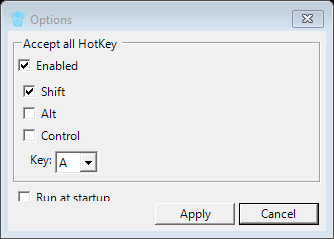
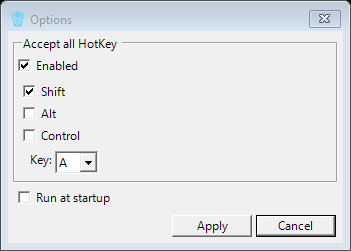
form size

Changed region(s): [[0.0299, 0.0293, 0.988, 0.8494], [0.479, 0.8494, 0.9581, 0.9665], [0.988, 0.0, 1.0, 0.0293]]

diff --git a/src/DiffEngineTray/Settings/OptionsForm.Designer.cs b/src/DiffEngineTray/Settings/OptionsForm.Designer.cs
@@ -39,17 +39,17 @@
             this.bottomPanel.Controls.Add(this.save);
             this.bottomPanel.Dock = System.Windows.Forms.DockStyle.Bottom;
             this.bottomPanel.FlowDirection = System.Windows.Forms.FlowDirection.RightToLeft;
-            this.bottomPanel.Location = new System.Drawing.Point(6, 228);
-            this.bottomPanel.Margin = new System.Windows.Forms.Padding(2, 2, 2, 2);
+            this.bottomPanel.Location = new System.Drawing.Point(6, 243);
+            this.bottomPanel.Margin = new System.Windows.Forms.Padding(2);
             this.bottomPanel.Name = "bottomPanel";
-            this.bottomPanel.Size = new System.Drawing.Size(351, 33);
+            this.bottomPanel.Size = new System.Drawing.Size(371, 33);
             this.bottomPanel.TabIndex = 1;
             // 
             // cancel
             // 
             this.cancel.DialogResult = System.Windows.Forms.DialogResult.Cancel;
-            this.cancel.Location = new System.Drawing.Point(257, 2);
-            this.cancel.Margin = new System.Windows.Forms.Padding(2, 2, 2, 2);
+            this.cancel.Location = new System.Drawing.Point(277, 2);
+            this.cancel.Margin = new System.Windows.Forms.Padding(2);
             this.cancel.Name = "cancel";
             this.cancel.RightToLeft = System.Windows.Forms.RightToLeft.Yes;
             this.cancel.Size = new System.Drawing.Size(92, 29);
@@ -59,8 +59,8 @@
             // 
             // save
             // 
-            this.save.Location = new System.Drawing.Point(161, 2);
-            this.save.Margin = new System.Windows.Forms.Padding(2, 2, 2, 2);
+            this.save.Location = new System.Drawing.Point(181, 2);
+            this.save.Margin = new System.Windows.Forms.Padding(2);
             this.save.Name = "save";
             this.save.Size = new System.Drawing.Size(92, 29);
             this.save.TabIndex = 1;
@@ -75,10 +75,10 @@
             this.hotKey.Controls.Add(this.hotKeyEnabled);
             this.hotKey.Dock = System.Windows.Forms.DockStyle.Top;
             this.hotKey.Location = new System.Drawing.Point(6, 6);
-            this.hotKey.Margin = new System.Windows.Forms.Padding(2, 2, 2, 2);
+            this.hotKey.Margin = new System.Windows.Forms.Padding(2);
             this.hotKey.Name = "hotKey";
-            this.hotKey.Padding = new System.Windows.Forms.Padding(6, 6, 6, 6);
-            this.hotKey.Size = new System.Drawing.Size(351, 178);
+            this.hotKey.Padding = new System.Windows.Forms.Padding(6);
+            this.hotKey.Size = new System.Drawing.Size(371, 178);
             this.hotKey.TabIndex = 2;
             this.hotKey.TabStop = false;
             this.hotKey.Text = "Accept all HotKey";
@@ -93,10 +93,10 @@
             this.keysSelectionPanel.Dock = System.Windows.Forms.DockStyle.Top;
             this.keysSelectionPanel.Enabled = false;
             this.keysSelectionPanel.Location = new System.Drawing.Point(6, 50);
-            this.keysSelectionPanel.Margin = new System.Windows.Forms.Padding(2, 2, 2, 2);
+            this.keysSelectionPanel.Margin = new System.Windows.Forms.Padding(2);
             this.keysSelectionPanel.Name = "keysSelectionPanel";
-            this.keysSelectionPanel.Padding = new System.Windows.Forms.Padding(6, 6, 6, 6);
-            this.keysSelectionPanel.Size = new System.Drawing.Size(339, 122);
+            this.keysSelectionPanel.Padding = new System.Windows.Forms.Padding(6);
+            this.keysSelectionPanel.Size = new System.Drawing.Size(359, 122);
             this.keysSelectionPanel.TabIndex = 1;
             // 
             // keyPanel
@@ -105,10 +105,10 @@
             this.keyPanel.Controls.Add(this.keyLabel);
             this.keyPanel.Dock = System.Windows.Forms.DockStyle.Top;
             this.keyPanel.Location = new System.Drawing.Point(6, 78);
-            this.keyPanel.Margin = new System.Windows.Forms.Padding(2, 2, 2, 2);
+            this.keyPanel.Margin = new System.Windows.Forms.Padding(2);
             this.keyPanel.Name = "keyPanel";
-            this.keyPanel.Padding = new System.Windows.Forms.Padding(6, 6, 6, 6);
-            this.keyPanel.Size = new System.Drawing.Size(327, 38);
+            this.keyPanel.Padding = new System.Windows.Forms.Padding(6);
+            this.keyPanel.Size = new System.Drawing.Size(347, 38);
             this.keyPanel.TabIndex = 6;
             // 
             // keyCombo
@@ -117,7 +117,7 @@
             this.keyCombo.DropDownStyle = System.Windows.Forms.ComboBoxStyle.DropDownList;
             this.keyCombo.FormattingEnabled = true;
             this.keyCombo.Location = new System.Drawing.Point(42, 6);
-            this.keyCombo.Margin = new System.Windows.Forms.Padding(2, 2, 2, 2);
+            this.keyCombo.Margin = new System.Windows.Forms.Padding(2);
             this.keyCombo.Name = "keyCombo";
             this.keyCombo.Size = new System.Drawing.Size(50, 28);
             this.keyCombo.TabIndex = 5;
@@ -138,9 +138,9 @@
             this.control.AutoSize = true;
             this.control.Dock = System.Windows.Forms.DockStyle.Top;
             this.control.Location = new System.Drawing.Point(6, 54);
-            this.control.Margin = new System.Windows.Forms.Padding(2, 2, 2, 2);
+            this.control.Margin = new System.Windows.Forms.Padding(2);
             this.control.Name = "control";
-            this.control.Size = new System.Drawing.Size(327, 24);
+            this.control.Size = new System.Drawing.Size(347, 24);
             this.control.TabIndex = 4;
             this.control.Text = "Control";
             this.control.UseVisualStyleBackColor = true;
@@ -150,9 +150,9 @@
             this.alt.AutoSize = true;
             this.alt.Dock = System.Windows.Forms.DockStyle.Top;
             this.alt.Location = new System.Drawing.Point(6, 30);
-            this.alt.Margin = new System.Windows.Forms.Padding(2, 2, 2, 2);
+            this.alt.Margin = new System.Windows.Forms.Padding(2);
             this.alt.Name = "alt";
-            this.alt.Size = new System.Drawing.Size(327, 24);
+            this.alt.Size = new System.Drawing.Size(347, 24);
             this.alt.TabIndex = 1;
             this.alt.Text = "Alt";
             this.alt.UseVisualStyleBackColor = true;
@@ -162,9 +162,9 @@
             this.shift.AutoSize = true;
             this.shift.Dock = System.Windows.Forms.DockStyle.Top;
             this.shift.Location = new System.Drawing.Point(6, 6);
-            this.shift.Margin = new System.Windows.Forms.Padding(2, 2, 2, 2);
+            this.shift.Margin = new System.Windows.Forms.Padding(2);
             this.shift.Name = "shift";
-            this.shift.Size = new System.Drawing.Size(327, 24);
+            this.shift.Size = new System.Drawing.Size(347, 24);
             this.shift.TabIndex = 0;
             this.shift.Text = "Shift";
             this.shift.UseVisualStyleBackColor = true;
@@ -174,9 +174,9 @@
             this.hotKeyEnabled.AutoSize = true;
             this.hotKeyEnabled.Dock = System.Windows.Forms.DockStyle.Top;
             this.hotKeyEnabled.Location = new System.Drawing.Point(6, 26);
-            this.hotKeyEnabled.Margin = new System.Windows.Forms.Padding(2, 2, 2, 2);
+            this.hotKeyEnabled.Margin = new System.Windows.Forms.Padding(2);
             this.hotKeyEnabled.Name = "hotKeyEnabled";
-            this.hotKeyEnabled.Size = new System.Drawing.Size(339, 24);
+            this.hotKeyEnabled.Size = new System.Drawing.Size(359, 24);
             this.hotKeyEnabled.TabIndex = 0;
             this.hotKeyEnabled.Text = "Enabled";
             this.hotKeyEnabled.UseVisualStyleBackColor = true;
@@ -187,10 +187,10 @@
             this.startupCheckBox.AutoSize = true;
             this.startupCheckBox.Dock = System.Windows.Forms.DockStyle.Top;
             this.startupCheckBox.Location = new System.Drawing.Point(6, 184);
-            this.startupCheckBox.Margin = new System.Windows.Forms.Padding(2, 2, 2, 2);
+            this.startupCheckBox.Margin = new System.Windows.Forms.Padding(2);
             this.startupCheckBox.Name = "startupCheckBox";
-            this.startupCheckBox.Padding = new System.Windows.Forms.Padding(6, 6, 6, 6);
-            this.startupCheckBox.Size = new System.Drawing.Size(351, 36);
+            this.startupCheckBox.Padding = new System.Windows.Forms.Padding(6);
+            this.startupCheckBox.Size = new System.Drawing.Size(371, 36);
             this.startupCheckBox.TabIndex = 3;
             this.startupCheckBox.Text = "Run at startup";
             this.startupCheckBox.UseVisualStyleBackColor = true;
@@ -201,15 +201,15 @@
             this.AutoScaleDimensions = new System.Drawing.SizeF(8F, 20F);
             this.AutoScaleMode = System.Windows.Forms.AutoScaleMode.Font;
             this.CancelButton = this.cancel;
-            this.ClientSize = new System.Drawing.Size(363, 267);
+            this.ClientSize = new System.Drawing.Size(383, 282);
             this.Controls.Add(this.startupCheckBox);
             this.Controls.Add(this.hotKey);
             this.Controls.Add(this.bottomPanel);
-            this.Margin = new System.Windows.Forms.Padding(2, 2, 2, 2);
+            this.Margin = new System.Windows.Forms.Padding(2);
             this.MaximizeBox = false;
             this.MinimizeBox = false;
             this.Name = "OptionsForm";
-            this.Padding = new System.Windows.Forms.Padding(6, 6, 6, 6);
+            this.Padding = new System.Windows.Forms.Padding(6);
             this.ShowInTaskbar = false;
             this.SizeGripStyle = System.Windows.Forms.SizeGripStyle.Hide;
             this.Text = "Options";
